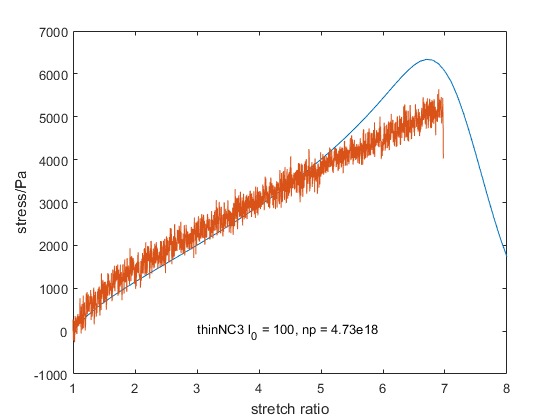
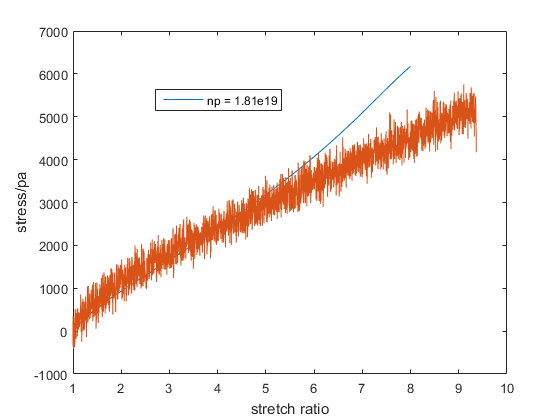
improvement
improvement of data input and change the expression of D to satisfy the
D/b=100

diff --git a/p4.m b/p4.m
@@ -1,10 +1,10 @@
 % parameters
 clear
 % the gap of n must be 1, or the sum(final) will not be the area.
-n = 11500:1:14000;
+n = 1:1:5000;
 
 %crosslinker density
-np = 1e19;
+np = 1e21;
 %np = 8.72e21;
 % kuhn length
 b = 1.1e-10;
@@ -19,14 +19,15 @@ k_active = b^2*nsite/4/r0^2;
 fstr_easy = 4;
 
 kb = 1.38e-23;
-T = 295;
 lambda = 1:0.1:8;
 
-% This part try to test the appropriate n and constant added in the process of computing final
-% D = sqrt(3)/2*(2/np)^(1/3);
+% % This part try to test the appropriate n and constant added in the process of computing final
+% %D = sqrt(3)/2*(2/np)^(1/3);
+% % This D assume D/b = 100 when np = 8.2e19
+% D = (b*100)*(8.2e19/np)^(1/3);
 % % compute chain length distribution
 % G = 3*D^2./(2*b^2.*n);
 % mid = k_active/sqrt(pi).*(sqrt(6*n).*exp(-G)+3*D/b*sqrt(pi*n).*erf(sqrt(G))-sqrt(6)*exp(-G.*n)-3*D/b.*erf(sqrt(G.*n)));
-% final=k_active*sqrt(3/2/pi./n).*exp(-G-mid+7600);% un-normalized P, +500 to avoid final to be so small to regonized as zero in matlab
+% final=k_active*sqrt(3/2/pi./n).*exp(-G-mid+200);% un-normalized P, +500 to avoid final to be so small to regonized as zero in matlab
 % P = final/sum(final);
 % plot(n,P)

diff --git a/Wuni.m b/Wuni.m
@@ -1,15 +1,24 @@
-% W for uniaxial stress test
+% W for uniaxial stress test in water
 %p4
 
+T = 295;
+% crosslinker distance
+%D = sqrt(3)/2*(2/np)^(1/3);
+% This D assume D/b = 100 when np = 8.2e19
+D = (b*100)*(8.2e19/np)^(1/3);
 % compute chain length distribution
 G = 3*D^2./(2*b^2.*n);
 mid = k_active/sqrt(pi).*(sqrt(6*n).*exp(-G)+3*D/b*sqrt(pi*n).*erf(sqrt(G))-sqrt(6)*exp(-G.*n)-3*D/b.*erf(sqrt(G.*n)));
-final=k_active*sqrt(3/2/pi./n).*exp(-G-mid+500);% un-normalized P, +500 to avoid final to be so small to regonized as zero in matlab
+final=k_active*sqrt(3/2/pi./n).*exp(-G-mid);% un-normalized P, +7600 to avoid final to be so small to regonized as zero in matlab For np=1e19
 P = final/sum(final);
 plot(n,P)
 
-% nominal stress
+% volume of water molecule
+omega = 3e-29;
+N = 0.01/omega;% Appear in Suo's paper but may use in Gao's paper as Norg
+
 Wstr = zeros(1,length(lambda));
+Wmix = zeros(1,length(lambda));
 
 for i = 1:length(lambda)
     I = sqrt(((lambda(i))^2+2/lambda(i))/3);

diff --git a/stress.m b/stress.m
@@ -8,7 +8,7 @@ D = (b*100)*(8.2e19/np)^(1/3);
 % compute chain length distribution
 G = 3*D^2./(2*b^2.*n);
 mid = k_active/sqrt(pi).*(sqrt(6*n).*exp(-G)+3*D/b*sqrt(pi*n).*erf(sqrt(G))-sqrt(6)*exp(-G.*n)-3*D/b.*erf(sqrt(G.*n)));
-final=k_active*sqrt(3/2/pi./n).*exp(-G-mid+7800);% un-normalized P, +7600 to avoid final to be so small to regonized as zero in matlab For np=1e19
+final=k_active*sqrt(3/2/pi./n).*exp(-G-mid);% un-normalized P, +7600 to avoid final to be so small to regonized as zero in matlab For np=1e19
 P = final/sum(final);
 plot(n,P)
 
@@ -30,6 +30,6 @@ for i = 1:length(lambda)
     end
 end
 %semilogx(lambda.^3,Wstr*150./Wmix)
-plot(lambda ,S) %the radius of gel is 3mm 
+plot(lambda ,S) 
 xlabel('stretch ratio');
 ylabel('stress/N');

diff --git a/stress_np.m b/stress_np.m
@@ -1,7 +1,7 @@
 % stress change with np
 p4
 
-npp = logspace(19,20,5);
+npp = logspace(19,19+log10(3.8),10);
 stre = zeros(length(npp),length(lambda));
 for k = 1:length(npp)
     % overwrite original parameter
@@ -18,8 +18,8 @@ xlabel('stretch ratio')
 %     hold on
 % end
 
-for i=1:5
+for i=1:3
     plot(lambda,stre(i,:))
-    %legend('np = 1e19','np = 3e19','np = 8e19','np = 2e20','np = 6e20','np = 2e21','np = 5e21','np = 1e22','np = 4e22','np = 1e23')
+    legend('np = 1e19','np = 3e19','np = 8e19','np = 2e20','np = 6e20')
     hold on
 end

diff --git a/dataprocess.m b/dataprocess.m
@@ -1,9 +1,12 @@
 %data processing
-load('1117_5_266.mat');
-len = 26.6;
-A = 3.1416*0.006^2;
+str = '1117_thin3_100.mat';
+load(str);
+[r len] = dataprocess1(str);
+A = 3.1416*r^2;
 pos = pos(2:length(pos)-100);
 loadd = loadd(2:length(loadd)-100)/A;
 loadd = medfilt1(loadd,15);
-lam = (pos-pos(1))/len + 1;
+lam = (pos-pos(1))/len*1.4 + 1;
 plot(lam,loadd)
+%legend(strcat('Length = ',num2str(len),'  Radius = ',num2str(r)))
+hold on

diff --git a/dataprocess1.m b/dataprocess1.m
@@ -1,0 +1,14 @@
+function [ r,len ] = dataprocess1( str )
+% dataprocess1 extract crossection area and length from file name
+if(strfind(str,'thin'))
+    r = 0.003;
+else
+    r = 0.0075;
+end
+
+startlen = strfind(str,'_');
+startlen = startlen(end);
+endlen = strfind(str,'.mat');
+len = str2num(str(startlen+1:endlen-1))/10;
+end
+
